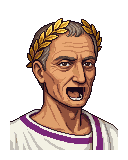
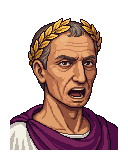
Cesar: nueva base y 5 emociones pintadas por inpainting sin deformar rasgos
Base: candidato con boca neutral. Emociones (alegre, sorprendido, severo, triste,
pensativo) y bocas m1-m3 con inpaint de PixelLab y mascaras de solo cejas/ojos y
boca: 0 pixeles cambian fuera de la mascara. Sustituye las 12 poses por trasplante.

Changed region(s): [[0.0625, 0.0938, 0.9375, 0.9375], [0.4062, 0.6875, 0.4375, 0.7188], [0.3438, 0.6875, 0.375, 0.7188]]

diff --git a/app.js b/app.js
@@ -160,16 +160,16 @@ function nextChapter(){return chapters.findIndex((c,i)=>!state.completed.include
 function say(text){document.querySelector('#bubble-text').textContent=text}
 /* César: retratos pixel art (avatar/). La cara no cambia: de cada expresión solo se trasplantan cejas, ojos y
    boca (tools/cesar_caras.py). Reacciona al tema del capítulo, a lo que se dice y a lo que haces. */
-const POSES=['neutral','m1','m2','m3','pleased','think','surprised','laugh','stern','worried','wink','cheer','sad'];
+const POSES=['neutral','m1','m2','m3','happy','surprised','stern','sad','think'];
 const FRAMES={};POSES.forEach(n=>{const i=new Image();i.src=`avatar/cesar-${n}.png`;FRAMES[n]=i});
 /* boca al hablar: m1, m2, m3 son solo la boca sobre la cara neutral; audio/boca.json da el nivel (0-3) de cada audio cada 50 ms */
 const BOCA=['neutral','m1','m2','m3'],PASO_BOCA=0.05;
 let ENVOLVENTES=null;fetch('audio/boca.json').then(r=>r.json()).then(j=>{ENVOLVENTES=j}).catch(()=>{});
-/* humor de cada capítulo según su tema */
-const MOOD=['pleased','pleased','wink','stern','pleased','cheer','wink','pleased','pleased','surprised','worried','stern','think','pleased','think','worried','think','think','wink','pleased','stern','surprised','pleased','worried','surprised','worried','pleased','worried','cheer','laugh','wink','cheer','stern','think','cheer'];
+/* humor de cada capítulo según su tema (cinco emociones base más la neutral) */
+const MOOD=['neutral','happy','surprised','stern','happy','neutral','happy','neutral','happy','surprised','sad','stern','think','happy','think','sad','think','think','happy','happy','stern','surprised','neutral','sad','surprised','sad','neutral','sad','happy','happy','happy','neutral','stern','think','happy'];
 const OK_LINES=['Optime!','Bene! Así se hace.','Recte!','¡Exacto! Se nota que estudias.','Perfecte!'];
 const BAD_LINES=['Non ita. No pasa nada: así se aprende.','Casi. Mira la respuesta y sigue.','Errare humanum est… sigamos.'];
-const QUIPS=[['surprised','¡Eh! Cuidado con la corona de laurel.'],['laugh','Ave! No cobro por saludar.'],['wink','Alea iacta est. ¿Seguimos?'],['stern','Menos cosquillas y más latín.'],['think','¿Sabías que mi nombre se pronuncia «Kaisar»?']];
+const QUIPS=[['surprised','¡Eh! Cuidado con la corona de laurel.'],['happy','Ave! No cobro por saludar.'],['happy','Alea iacta est. ¿Seguimos?'],['stern','Menos cosquillas y más latín.'],['think','¿Sabías que mi nombre se pronuncia «Kaisar»?']];
 let poseTimer,mouthTimer,lipRaf=0,actual='',okStreak=0,badStreak=0,lastLine='';
 const pick=a=>a[Math.floor(Math.random()*a.length)];
 function setPose(n){
@@ -188,11 +188,11 @@ function talking(on,env,reloj){
 }
 function reactAnswer(correct){
   if(correct){badStreak=0;okStreak++;
-    if(okStreak%3===0)react('cheer',`¡${okStreak} seguidas! Veni, vidi, vici.`,3200);
-    else react(pick(['pleased','wink','pleased','laugh']),pick(OK_LINES),2400)}
+    if(okStreak%3===0)react('happy',`¡${okStreak} seguidas! Veni, vidi, vici.`,3200);
+    else react('happy',pick(OK_LINES),2400)}
   else{okStreak=0;badStreak++;
     if(badStreak>=3)react('sad','Respira, repasa la regla de arriba y vuelve a intentarlo.',3200);
-    else if(badStreak===2)react('worried',pick(BAD_LINES),2800);
+    else if(badStreak===2)react('sad',pick(BAD_LINES),2800);
     else react('think',pick(BAD_LINES),2600)}
 }
 function updateCounts(){
@@ -205,7 +205,7 @@ function updateCounts(){
   const go=document.querySelector('#continue-button');go.firstChild.textContent=state.completed.length?'Continuar el viaje ':'Comenzar el viaje '
 }
 function showToast(message){const node=document.querySelector('#toast');node.textContent=message;node.classList.add('show');clearTimeout(toastTimer);toastTimer=setTimeout(()=>node.classList.remove('show'),2400)}
-function navigate(view){document.querySelectorAll('.view').forEach(v=>v.classList.add('hidden'));document.querySelector(`#${view}-view`).classList.remove('hidden');document.querySelectorAll('.nav-button').forEach(b=>b.classList.toggle('on',b.dataset.view===(view==='chapter'?'journey':view)));window.scrollTo(0,0);if(bubbleText[view])say(bubbleText[view]);if(view==='cards'){renderReview();const n=state.cards.filter(c=>c.due<=Date.now()).length;if(!state.cards.length)react('neutral','Aún no hay cartas: resuelve ejercicios y se guardarán solas.',0);else if(n)react('pleased',`Tienes ${n} ${n===1?'carta':'cartas'} para hoy. Empecemos, sin prisa pero sin pausa.`,2800);else react('cheer','Todo al día. Volverán cuando tu memoria las necesite.',2800)}}
+function navigate(view){document.querySelectorAll('.view').forEach(v=>v.classList.add('hidden'));document.querySelector(`#${view}-view`).classList.remove('hidden');document.querySelectorAll('.nav-button').forEach(b=>b.classList.toggle('on',b.dataset.view===(view==='chapter'?'journey':view)));window.scrollTo(0,0);if(bubbleText[view])say(bubbleText[view]);if(view==='cards'){renderReview();const n=state.cards.filter(c=>c.due<=Date.now()).length;if(!state.cards.length)react('neutral','Aún no hay cartas: resuelve ejercicios y se guardarán solas.',0);else if(n)react('happy',`Tienes ${n} ${n===1?'carta':'cartas'} para hoy. Empecemos, sin prisa pero sin pausa.`,2800);else react('happy','Todo al día. Volverán cuando tu memoria las necesite.',2800)}}
 function renderChapters(){
   const next=nextChapter();
   if(!openLevels.size)openLevels.add(levels.findIndex(([,,from,to])=>next<0?from===0:next>=from&&next<to));
@@ -236,7 +236,7 @@ function roman(n){const values=[[10,'X'],[9,'IX'],[5,'V'],[4,'IV'],[1,'I']];let 
 function renderQuestion(){
   const c=chapters[currentChapter],area=document.querySelector('#exercise-area'),done=document.querySelector('#chapter-done');
   document.querySelectorAll('#steps span').forEach((s,i)=>{s.className=i<questionIndex?'done':i===questionIndex?'on':''});
-  if(questionIndex>=2){area.innerHTML='';done.classList.add('visible');if(!state.completed.includes(currentChapter)&&state.completed.length===chapters.length-1)react('laugh','¡Has recorrido todo el camino! Veni, vidi, didici.',5000);else react('cheer','Optime! Capítulo completo. Tus cartas te esperan en su día.',3600);if(!state.completed.includes(currentChapter)){state.completed.push(currentChapter);state.completed.sort((a,b)=>a-b);saveState();renderChapters()}return}
+  if(questionIndex>=2){area.innerHTML='';done.classList.add('visible');if(!state.completed.includes(currentChapter)&&state.completed.length===chapters.length-1)react('happy','¡Has recorrido todo el camino! Veni, vidi, didici.',5000);else react('happy','Optime! Capítulo completo. Tus cartas te esperan en su día.',3600);if(!state.completed.includes(currentChapter)){state.completed.push(currentChapter);state.completed.sort((a,b)=>a-b);saveState();renderChapters()}return}
   done.classList.remove('visible');
   const isWord=questionIndex===0;
   const prompt=isWord?`¿Qué significa <i>${c.word[0]}</i>?`:c.quiz[0];
@@ -263,7 +263,7 @@ function upsertCard(data){const id=`${data.type}-${data.chapter}-${slug(data.fro
 function slug(s){return s.normalize('NFD').replace(/[̀-ͯ]/g,'').toLowerCase().replace(/[^a-z0-9]+/g,'-')}
 function renderReview(){const due=state.cards.filter(c=>c.due<=Date.now());document.querySelector('#due-count').textContent=due.length;document.querySelector('#review-area').innerHTML='';const filters=[...document.querySelectorAll('.chip')];filters.forEach(b=>{b.classList.toggle('on',b.dataset.filter===activeFilter);b.onclick=()=>{activeFilter=b.dataset.filter;reviewIndex=0;cardIsFlipped=false;renderReview()}});let cards=activeFilter==='all'?state.cards.slice():activeFilter==='word'?state.cards.filter(c=>c.type==='word'):activeFilter==='grammar'?state.cards.filter(c=>c.type==='grammar'):due.slice();cards.sort((a,b)=>a.due-b.due);reviewQueue=cards;reviewIndex=Math.min(reviewIndex,Math.max(cards.length-1,0));if(!cards.length){const hasFuture=state.cards.length>0;document.querySelector('#review-area').innerHTML=`<div class="empty-state"><strong>${hasFuture?'Todo repasado por hoy.':'Aún no tienes cartas.'}</strong><p>${hasFuture?'Las próximas cartas aparecerán en su fecha. Puedes mirar todas tus cartas mientras tanto.':'Completa ejercicios en un capítulo para guardar cartas de palabras y gramática automáticamente.'}</p></div>`;return}drawReviewCard()}
 function drawReviewCard(){const area=document.querySelector('#review-area'),card=reviewQueue[reviewIndex];if(!card)return;const label=card.type==='word'?'Palabra':'Gramática';area.innerHTML=`<div class="card review-card"><div class="review-type">${label} · Cap. ${String(card.chapter+1).padStart(2,'0')} · ${reviewIndex+1}/${reviewQueue.length}</div><div class="front-row"><h2 class="review-front">${card.front}</h2>${card.type==='word'?speakBtn(card.front,LECTOR):''}</div>${cardIsFlipped?`<p class="review-back">${card.back}</p><p class="review-example">${card.example}</p><div class="grades"><button class="btn red" data-grade="hard">Difícil<small>1 día</small></button><button class="btn primary" data-grade="medium">Regular<small>≈ 3 días</small></button><button class="btn green" data-grade="easy">Fácil<small>≈ 7 días</small></button></div>`:`<button class="btn big flip-button">Mostrar respuesta ↓</button>`}</div>`;const flip=area.querySelector('.flip-button');if(flip)flip.onclick=()=>{cardIsFlipped=true;drawReviewCard()};area.querySelectorAll('[data-grade]').forEach(b=>b.onclick=()=>gradeCard(card,b.dataset.grade))}
-function gradeCard(card,grade){let quality=grade==='hard'?2:grade==='medium'?3:5;card.ease=Math.max(1.3,card.ease+(0.1-(5-quality)*(0.08+(5-quality)*0.02)));if(quality<3){card.repetitions=0;card.interval=1}else{card.repetitions++;if(grade==='hard')card.interval=1;else if(card.repetitions===1)card.interval=grade==='easy'?7:3;else card.interval=Math.max(1,Math.round(card.interval*card.ease*(grade==='easy'?1.25:1)))}card.due=Date.now()+card.interval*86400000;card.lastSeen=Date.now();saveState();const prev=reviewIndex;reviewQueue=reviewQueue.filter(c=>c.id!==card.id);reviewIndex=Math.min(prev,reviewQueue.length-1);cardIsFlipped=false;renderReview();showToast(`Próximo repaso: ${card.interval} ${card.interval===1?'día':'días'}.`);if(!reviewQueue.length&&activeFilter==='due')react('cheer','¡Todo repasado por hoy! Optime.',3600);else if(grade==='hard')react('worried','Difícil, ¿eh? Volverá pronto: así se fija.',2600);else if(grade==='easy')react(pick(['wink','pleased']),pick(['Facile!','Te la sabes. Sigamos.']),2400);else react('pleased','Bene. La veremos de nuevo en unos días.',2400)}
+function gradeCard(card,grade){let quality=grade==='hard'?2:grade==='medium'?3:5;card.ease=Math.max(1.3,card.ease+(0.1-(5-quality)*(0.08+(5-quality)*0.02)));if(quality<3){card.repetitions=0;card.interval=1}else{card.repetitions++;if(grade==='hard')card.interval=1;else if(card.repetitions===1)card.interval=grade==='easy'?7:3;else card.interval=Math.max(1,Math.round(card.interval*card.ease*(grade==='easy'?1.25:1)))}card.due=Date.now()+card.interval*86400000;card.lastSeen=Date.now();saveState();const prev=reviewIndex;reviewQueue=reviewQueue.filter(c=>c.id!==card.id);reviewIndex=Math.min(prev,reviewQueue.length-1);cardIsFlipped=false;renderReview();showToast(`Próximo repaso: ${card.interval} ${card.interval===1?'día':'días'}.`);if(!reviewQueue.length&&activeFilter==='due')react('happy','¡Todo repasado por hoy! Optime.',3600);else if(grade==='hard')react('sad','Difícil, ¿eh? Volverá pronto: así se fija.',2600);else if(grade==='easy')react('happy',pick(['Facile!','Te la sabes. Sigamos.']),2400);else react('happy','Bene. La veremos de nuevo en unos días.',2400)}
 document.querySelectorAll('[data-view]').forEach(b=>b.addEventListener('click',()=>navigate(b.dataset.view)));
 document.querySelector('.logo').addEventListener('click',e=>{e.preventDefault();navigate('journey')});
 document.querySelector('#continue-button').addEventListener('click',()=>{const next=nextChapter();openChapter(next<0?0:next)});
@@ -272,11 +272,11 @@ document.querySelector('#engine-toggle').addEventListener('click',()=>{
   state.motor=state.motor==='clasica'?'humana':'clasica';saveState();applyMotor();detenClasica();player.pause();
   if(state.motor==='clasica'){showToast('Voz clásica (eSpeak): pronunciación latina reconstruida, más robótica.');cargaClasica().catch(e=>{console.error(e);moduloCla=null;state.motor='humana';saveState();applyMotor();showToast('No se pudo cargar la voz clásica; uso la voz humana.')})}
   else showToast('Voz humana (neuronal).')});
-document.querySelector('#slow-toggle').addEventListener('click',()=>{state.slow=!state.slow;saveState();applySlow();showToast(state.slow?'Voz lenta activada.':'Voz a velocidad normal.');react(state.slow?'wink':'pleased',state.slow?'Festina lente: apresúrate despacio.':'A buen paso entonces.',2400)});
+document.querySelector('#slow-toggle').addEventListener('click',()=>{state.slow=!state.slow;saveState();applySlow();showToast(state.slow?'Voz lenta activada.':'Voz a velocidad normal.');react('happy',state.slow?'Festina lente: apresúrate despacio.':'A buen paso entonces.',2400)});
 document.querySelector('.avatar').addEventListener('click',()=>{const [p,s]=pick(QUIPS);react(p,s,2600)});
 renderChapters();updateCounts();applySlow();applyMotor();setPose('neutral');
 const away=state.lastVisit?(Date.now()-state.lastVisit)/864e5:0;
 if(state.completed.length&&away>=3)react('surprised',`¡Han pasado ${Math.floor(away)} días! Repasemos antes de seguir.`,4000);
-else if(state.completed.length)react('pleased','Salve de nuevo. Sigamos donde lo dejamos.',3000);
+else if(state.completed.length)react('happy','Salve de nuevo. Sigamos donde lo dejamos.',3000);
 else say(bubbleText.journey);
 state.lastVisit=Date.now();saveState();

diff --git a/avatar/README.md b/avatar/README.md
@@ -1,0 +1,18 @@
+# César: retratos
+
+Base: `cesar-neutral.png` (128×160), generada con PixelLab (`create_image_pro`) a partir de una descripción fiel a los
+bustos de Tusculum y Chiaramonti; de cuatro candidatos se eligió el de boca realmente neutral y rasgos más secos.
+
+Las cinco emociones base (`happy`, `surprised`, `stern`, `sad`, `think`) y las tres aperturas de boca (`m1`, `m2`, `m3`,
+que se usan al hablar) se pintan con **inpainting** de PixelLab (`inpaint_image`, 10 generaciones cada una) sobre la
+propia base y con una máscara que cubre solo cejas y ojos (`fuentes/mascara-cara.png`) y boca (`fuentes/mascara-boca.png`,
+solo la boca para m1–m3). Todo lo que queda fuera de la máscara —contorno, nariz, mejillas, arrugas, pelo, corona,
+toga— es idéntico píxel a píxel a la base, así que los rasgos no se deforman. Comprobado: 0 píxeles distintos fuera de la
+máscara en las ocho imágenes.
+
+Para otra emoción: `inpaint_image` con la base como `image_url`, la máscara como `mask_image_url` (data URL del PNG,
+copiado exacto del archivo) y una descripción del tipo «The same lean Roman man's brows, eyes and mouth showing … Keep his
+brown eyes, grey brows, deep wrinkles and hollow cheeks, same lighting and pixel style».
+
+Se descartó editar la imagen entera (`edit_image_pixen`): repinta todo y cambia mandíbula, tono de piel y corona; y
+trasplantar cejas/ojos/boca de otras imágenes: sus rasgos estaban dibujados para otro ángulo de cabeza y no encajan.
